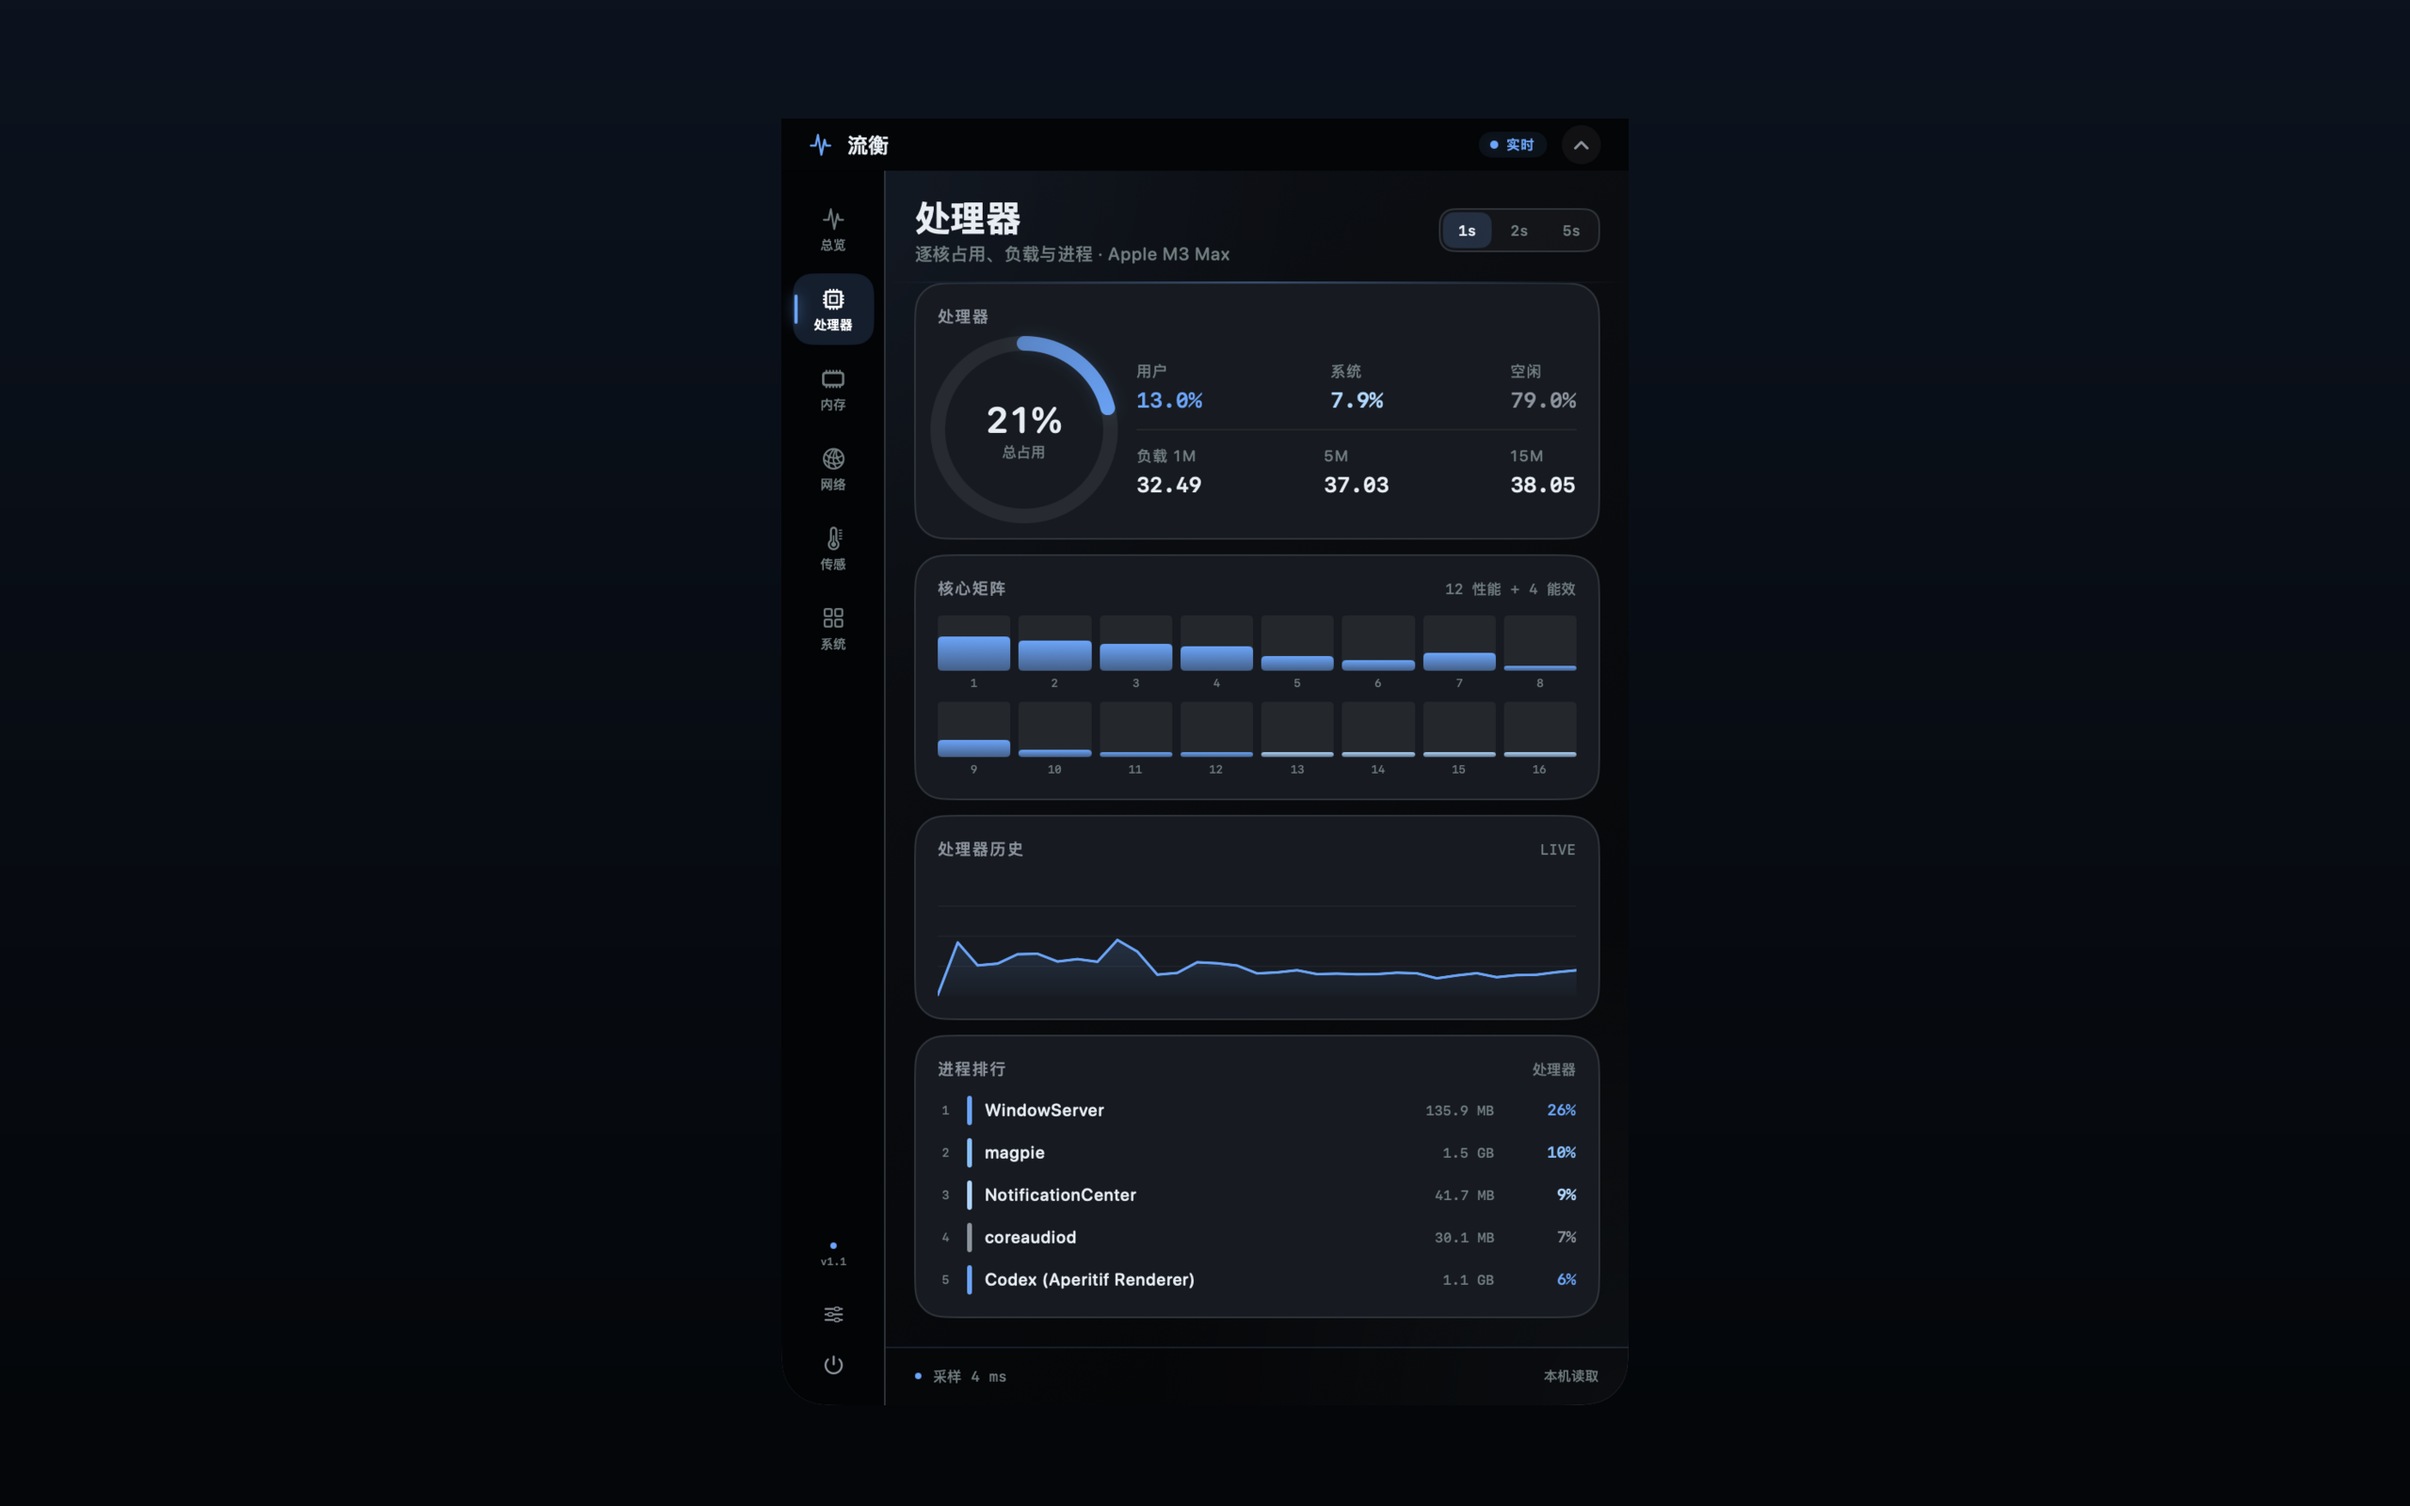
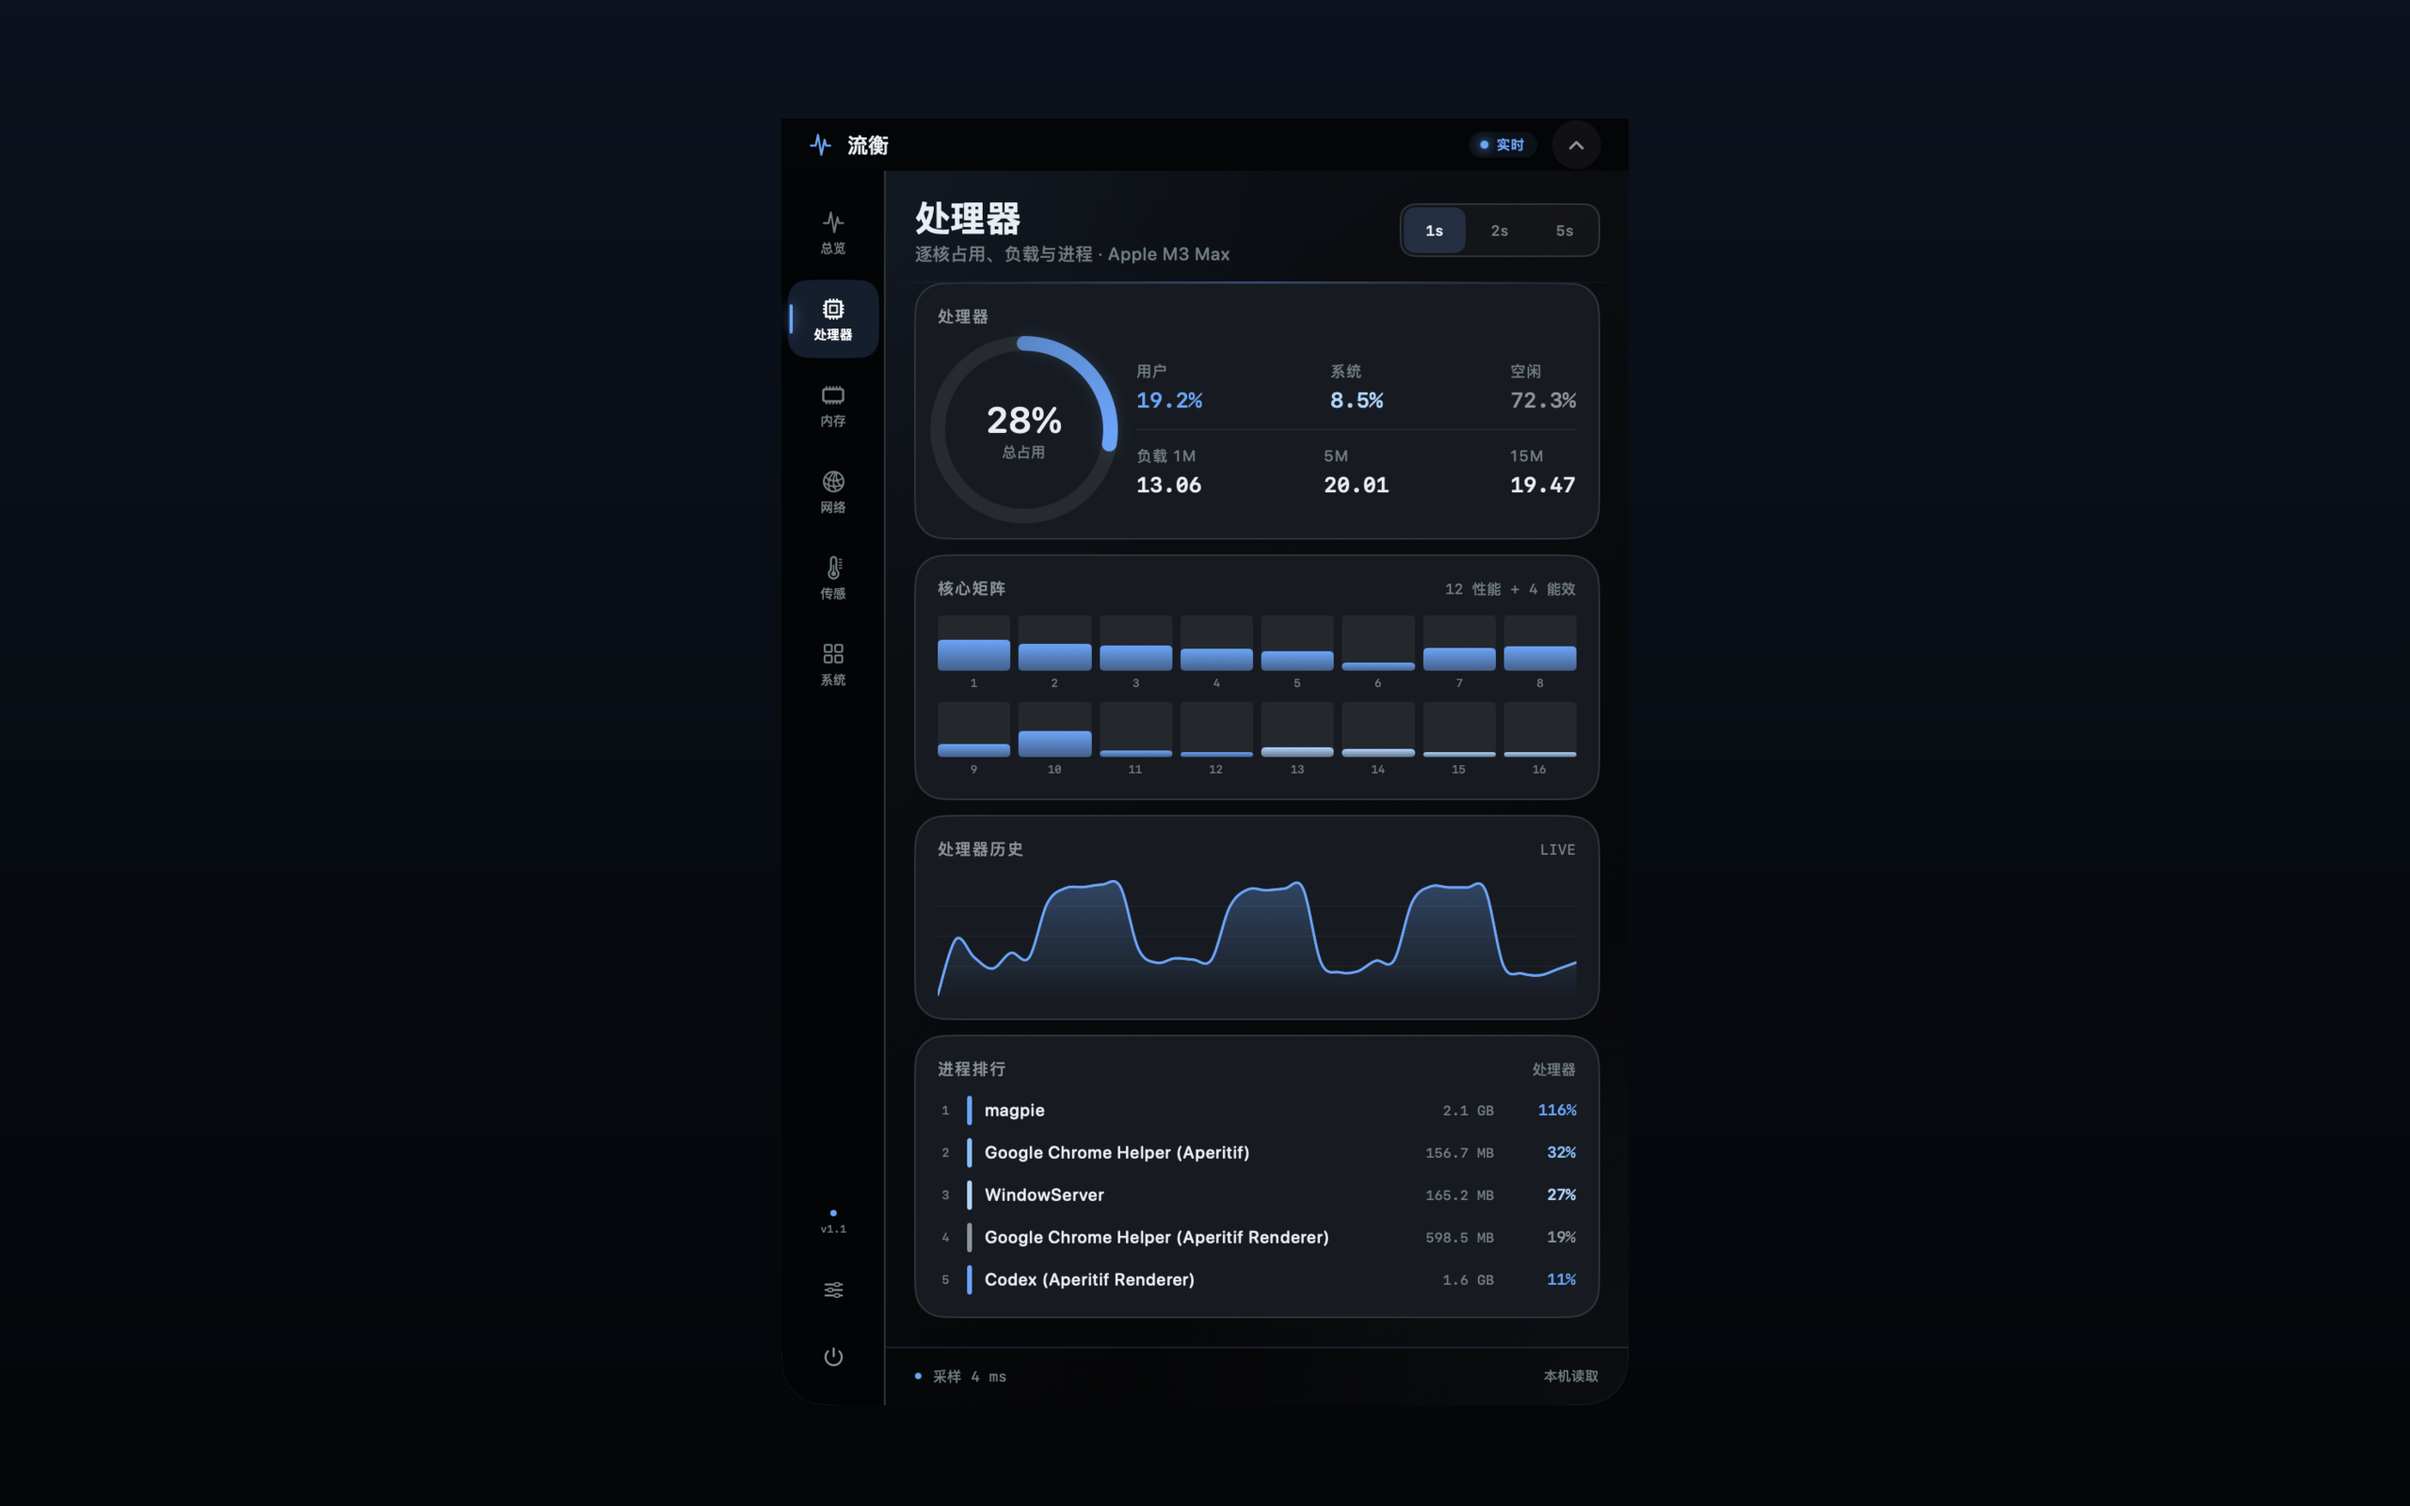
Use smooth pulse curves for charts

diff --git a/Sources/Pulse/Theme.swift b/Sources/Pulse/Theme.swift
@@ -157,6 +157,32 @@ struct RingGauge: View {
     }
 }
 
+enum ChartPath {
+    static func smooth(_ points: [CGPoint], in bounds: CGRect) -> Path {
+        var path = Path()
+        guard let first = points.first else { return path }
+        path.move(to: first)
+        guard points.count > 1 else { return path }
+
+        for index in 0..<(points.count - 1) {
+            let p0 = points[max(0, index - 1)]
+            let p1 = points[index]
+            let p2 = points[index + 1]
+            let p3 = points[min(points.count - 1, index + 2)]
+            let c1 = CGPoint(
+                x: p1.x + (p2.x - p0.x) / 6,
+                y: min(bounds.maxY, max(bounds.minY, p1.y + (p2.y - p0.y) / 6))
+            )
+            let c2 = CGPoint(
+                x: p2.x - (p3.x - p1.x) / 6,
+                y: min(bounds.maxY, max(bounds.minY, p2.y - (p3.y - p1.y) / 6))
+            )
+            path.addCurve(to: p2, control1: c1, control2: c2)
+        }
+        return path
+    }
+}
+
 struct AreaChart: View {
     var values: [Double]
     var color: Color
@@ -182,18 +208,16 @@ struct AreaChart: View {
                 }
             }
 
-            var line = Path()
+            let plot = CGRect(x: 0, y: 0, width: size.width, height: size.height)
+            var points: [CGPoint] = []
             for (index, value) in values.enumerated() {
                 let x = CGFloat(index) * step
                 let normalized = min(1, max(0, value / top))
                 let y = size.height - CGFloat(normalized) * (size.height - 2) - 1
-                if index == 0 {
-                    line.move(to: CGPoint(x: x, y: y))
-                } else {
-                    line.addLine(to: CGPoint(x: x, y: y))
-                }
+                points.append(CGPoint(x: x, y: y))
             }
 
+            let line = ChartPath.smooth(points, in: plot)
             var area = line
             area.addLine(to: CGPoint(x: size.width, y: size.height))
             area.addLine(to: CGPoint(x: 0, y: size.height))

diff --git a/Sources/Pulse/DashboardView.swift b/Sources/Pulse/DashboardView.swift
@@ -720,17 +720,15 @@ private struct PulseWave: View {
                     )
                 }
 
-                var line = Path()
+                var points: [CGPoint] = []
                 for (index, value) in samples.enumerated() {
                     let x = CGFloat(index) * step
                     let y = size.height - CGFloat(min(top, max(0, value)) / top) * (size.height - 4) - 2
-                    if index == 0 {
-                        line.move(to: CGPoint(x: x, y: y))
-                    } else {
-                        line.addLine(to: CGPoint(x: x, y: y))
-                    }
+                    points.append(CGPoint(x: x, y: y))
                 }
 
+                let plot = CGRect(x: 0, y: 0, width: size.width, height: size.height)
+                let line = ChartPath.smooth(points, in: plot)
                 var area = line
                 area.addLine(to: CGPoint(x: size.width, y: size.height))
                 area.addLine(to: CGPoint(x: 0, y: size.height))
